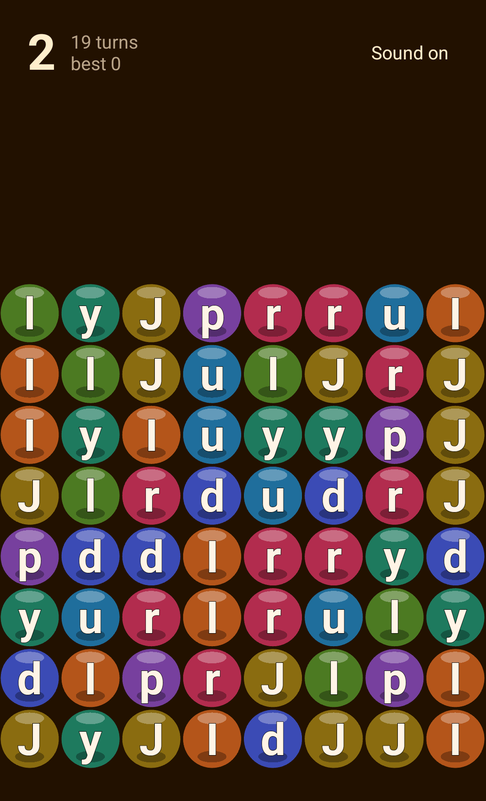
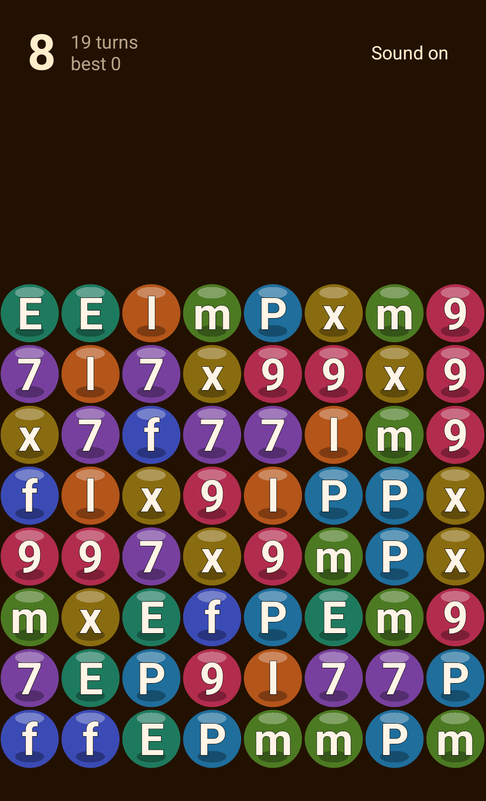
1.5: the landing squash follows the tiles that moved
- Re-vendors the game at upstream 061bf95, where each tile squashes by how far it fell in the
  move that just happened, and a tile that did not move is not squashed at all. Measured
  before the fix by diffing the deepest settle frame against the settled one: the changed
  pixels spanned 448x709 of a 473x1024 canvas with all eight board columns changing by a
  similar amount, i.e. a one-bubble tap moved every tile on the board. After: only the five
  cells above the cleared bubble are asked to squash, each with distance 1, and the rule
  measures 0.947 for a one-row fall, 0.890 for a seven-row fall and exactly 1.000 for a tile
  that stayed put.
- versionCode 6, versionName 1.5. Release APK 206,173 bytes,
  sha256 a13fec7ed1675a164b377ec42353cdef2f858992e661b894f72786cd7b2be2bc, same release key,
  no permissions, not debuggable. verify-ui.sh green: board unchanged by three header taps,
  board and header both changed by a board tap, no crash, no permissions. README table,
  upstream pin and screenshot refreshed.

diff --git a/game/source/game/classes/view/Display.ts b/game/source/game/classes/view/Display.ts
@@ -70,9 +70,6 @@ class Display {
     /** set once the game is over, so a fading floater cannot repaint over the end card */
     private finished: boolean = false;
 
-    /** vertical squash of the whole board for the landing, 1 = round */
-    private squashY: number = 1;
-
     /** the cell a keyboard or screen-reader user has focused, drawn with a ring */
     private focused: Neighbor = null;
 
@@ -365,7 +362,7 @@ class Display {
                 let t = new Tile(this.board.getPosition(x, y), this.board, this, row, hidden, x);
                 t.pressed = this.pressed !== null && this.pressed.x === x && this.pressed.y === y;
                 t.focused = this.focused !== null && this.focused.x === x && this.focused.y === y;
-                t.squashY = this.squashY;
+                t.squashY = this.squashFor(x, y);
                 t.draw();
             }
         }
@@ -558,8 +555,15 @@ class Display {
 
         let moves: Array<AnimationMove> = [];
 
+        // What the settle needs: which destination cells' tiles moved, and how far. Cells that did
+        // not move are absent, and that is what keeps the landing squash off them.
+        this.fallDistance = {};
+
         for (let i = 0; i < plan.length; i++) {
             let m = plan[i];
+
+            this.fallDistance[m.x + "," + m.to] = Math.abs(m.to - m.from);
+
             moves.push({
                 x: m.x,
                 from: m.from,
@@ -572,6 +576,37 @@ class Display {
         }
 
         this.run(moves, onDone);
+    }
+
+    /** how far each destination cell's tile fell in the last move, keyed "x,y" */
+    private fallDistance: RowOverrides = {};
+
+    /** 0..1 through the settle; 1 means nothing is squashing */
+    private settleProgress: number = 1;
+
+    /**
+     * How much this cell's tile is squashed right now.
+     *
+     * Only tiles that actually fell squash, and the amount follows the distance they fell: a single
+     * bubble coming out nudges the few tiles above it, a full column collapse thuds. Applying one
+     * squash to the whole board (which is what this did first) meant a one-bubble tap visibly
+     * bounced all 64 tiles.
+     */
+    private squashFor(x: number, y: number): number {
+
+        if (this.settleProgress >= 1) {
+            return 1;
+        }
+
+        let distance = this.fallDistance[x + "," + y];
+
+        if (!distance) {
+            return 1;
+        }
+
+        let amplitude = Math.min(0.11, 0.035 + (0.018 * distance));
+
+        return 1 - (amplitude * Math.sin(Math.PI * this.settleProgress));
     }
 
     /** the board taking the impact of the fall: a short squash anchored at each tile's bottom */
@@ -599,7 +634,7 @@ class Display {
 
             let p = Math.min(1, (now - started) / duration);
 
-            this.squashY = 1 - (0.12 * Math.sin(Math.PI * p));
+            this.settleProgress = p;
             this.draw();
 
             if (p < 1) {
@@ -607,7 +642,7 @@ class Display {
                 return;
             }
 
-            this.squashY = 1;
+            this.settleProgress = 1;
             this.draw();
             onDone();
         };

diff --git a/game/source/game/classes/view/Display.js b/game/source/game/classes/view/Display.js
@@ -8,12 +8,13 @@ var Display = (function () {
         this.floaters = [];
         this.effectToken = 0;
         this.finished = false;
-        this.squashY = 1;
         this.focused = null;
         this.reduceMotion = false;
         this.showHud = true;
         this.muted = false;
         this.runToken = 0;
+        this.fallDistance = {};
+        this.settleProgress = 1;
         this.game = game;
         this.board = this.game.board;
         this.canvas = canvas;
@@ -188,7 +189,7 @@ var Display = (function () {
                 var t = new Tile(this.board.getPosition(x, y), this.board, this, row, hidden, x);
                 t.pressed = this.pressed !== null && this.pressed.x === x && this.pressed.y === y;
                 t.focused = this.focused !== null && this.focused.x === x && this.focused.y === y;
-                t.squashY = this.squashY;
+                t.squashY = this.squashFor(x, y);
                 t.draw();
             }
         }
@@ -318,8 +319,10 @@ var Display = (function () {
             return;
         }
         var moves = [];
+        this.fallDistance = {};
         for (var i = 0; i < plan.length; i++) {
             var m = plan[i];
+            this.fallDistance[m.x + "," + m.to] = Math.abs(m.to - m.from);
             moves.push({
                 x: m.x,
                 from: m.from,
@@ -330,6 +333,17 @@ var Display = (function () {
             });
         }
         this.run(moves, onDone);
+    };
+    Display.prototype.squashFor = function (x, y) {
+        if (this.settleProgress >= 1) {
+            return 1;
+        }
+        var distance = this.fallDistance[x + "," + y];
+        if (!distance) {
+            return 1;
+        }
+        var amplitude = Math.min(0.11, 0.035 + (0.018 * distance));
+        return 1 - (amplitude * Math.sin(Math.PI * this.settleProgress));
     };
     Display.prototype.animateSettle = function (onDone) {
         var _this = this;
@@ -349,13 +363,13 @@ var Display = (function () {
                 started = now;
             }
             var p = Math.min(1, (now - started) / duration);
-            _this.squashY = 1 - (0.12 * Math.sin(Math.PI * p));
+            _this.settleProgress = p;
             _this.draw();
             if (p < 1) {
                 requestAnimationFrame(frame);
                 return;
             }
-            _this.squashY = 1;
+            _this.settleProgress = 1;
             _this.draw();
             onDone();
         };

diff --git a/README.md b/README.md
@@ -18,8 +18,8 @@ exponentially with the size of the run you clear, so one big group beats five sm
 
 | Artifact | Size | SHA-256 | Purpose |
 | --- | --- | --- | --- |
[4 lines of base64/hex data omitted]
 
 Requires Android 5.0 (API 21) or newer. Portrait, full screen, screen stays awake while you play.
 
@@ -113,7 +113,10 @@ looked at:
   with their letters and positions, plus a live region for the score, and Enter plays a cell through
   the same pipeline as a tap - measured from "Score 0, 20 turns left" to "Score 4, 19 turns left".
   `uiautomator` sees the cells and the header's text.
-- **Landing squash, and the system's motion preference is honoured** (no deal-in, no fall, no pop, no
+- **The landing squash follows the tiles that moved**: only tiles that fell squashed, by how far they
+  fell (a one-bubble tap nudges the few tiles above it; a column collapse thuds). It used to squash all
+  64 tiles at once, which read as the whole board bouncing on any tap. The system's motion preference is
+  honoured too (no deal-in, no fall, no pop, no
   float when reduced motion is on: 6,412 painted samples at 80 ms normally against 36,798 with it
   reduced).
 - **The tap answers**: a pressed tile is drawn pressed before the run clears, the run shrinks away
@@ -149,7 +152,7 @@ looked at:
 ## Upstream and license
 
 The game itself lives in [kevinelong/textcrush](https://github.com/kevinelong/textcrush); `game/` here
-is that source at commit `8a50b9c`, vendored so the APK build has no external checkout. Everything
+is that source at commit `061bf95`, vendored so the APK build has no external checkout. Everything
 under `game/` is upstream's; the Android wrapper is this repository.
 
 Licensed under the **Functional Source License, Version 1.1, MIT Future License** (`FSL-1.1-MIT`) —
